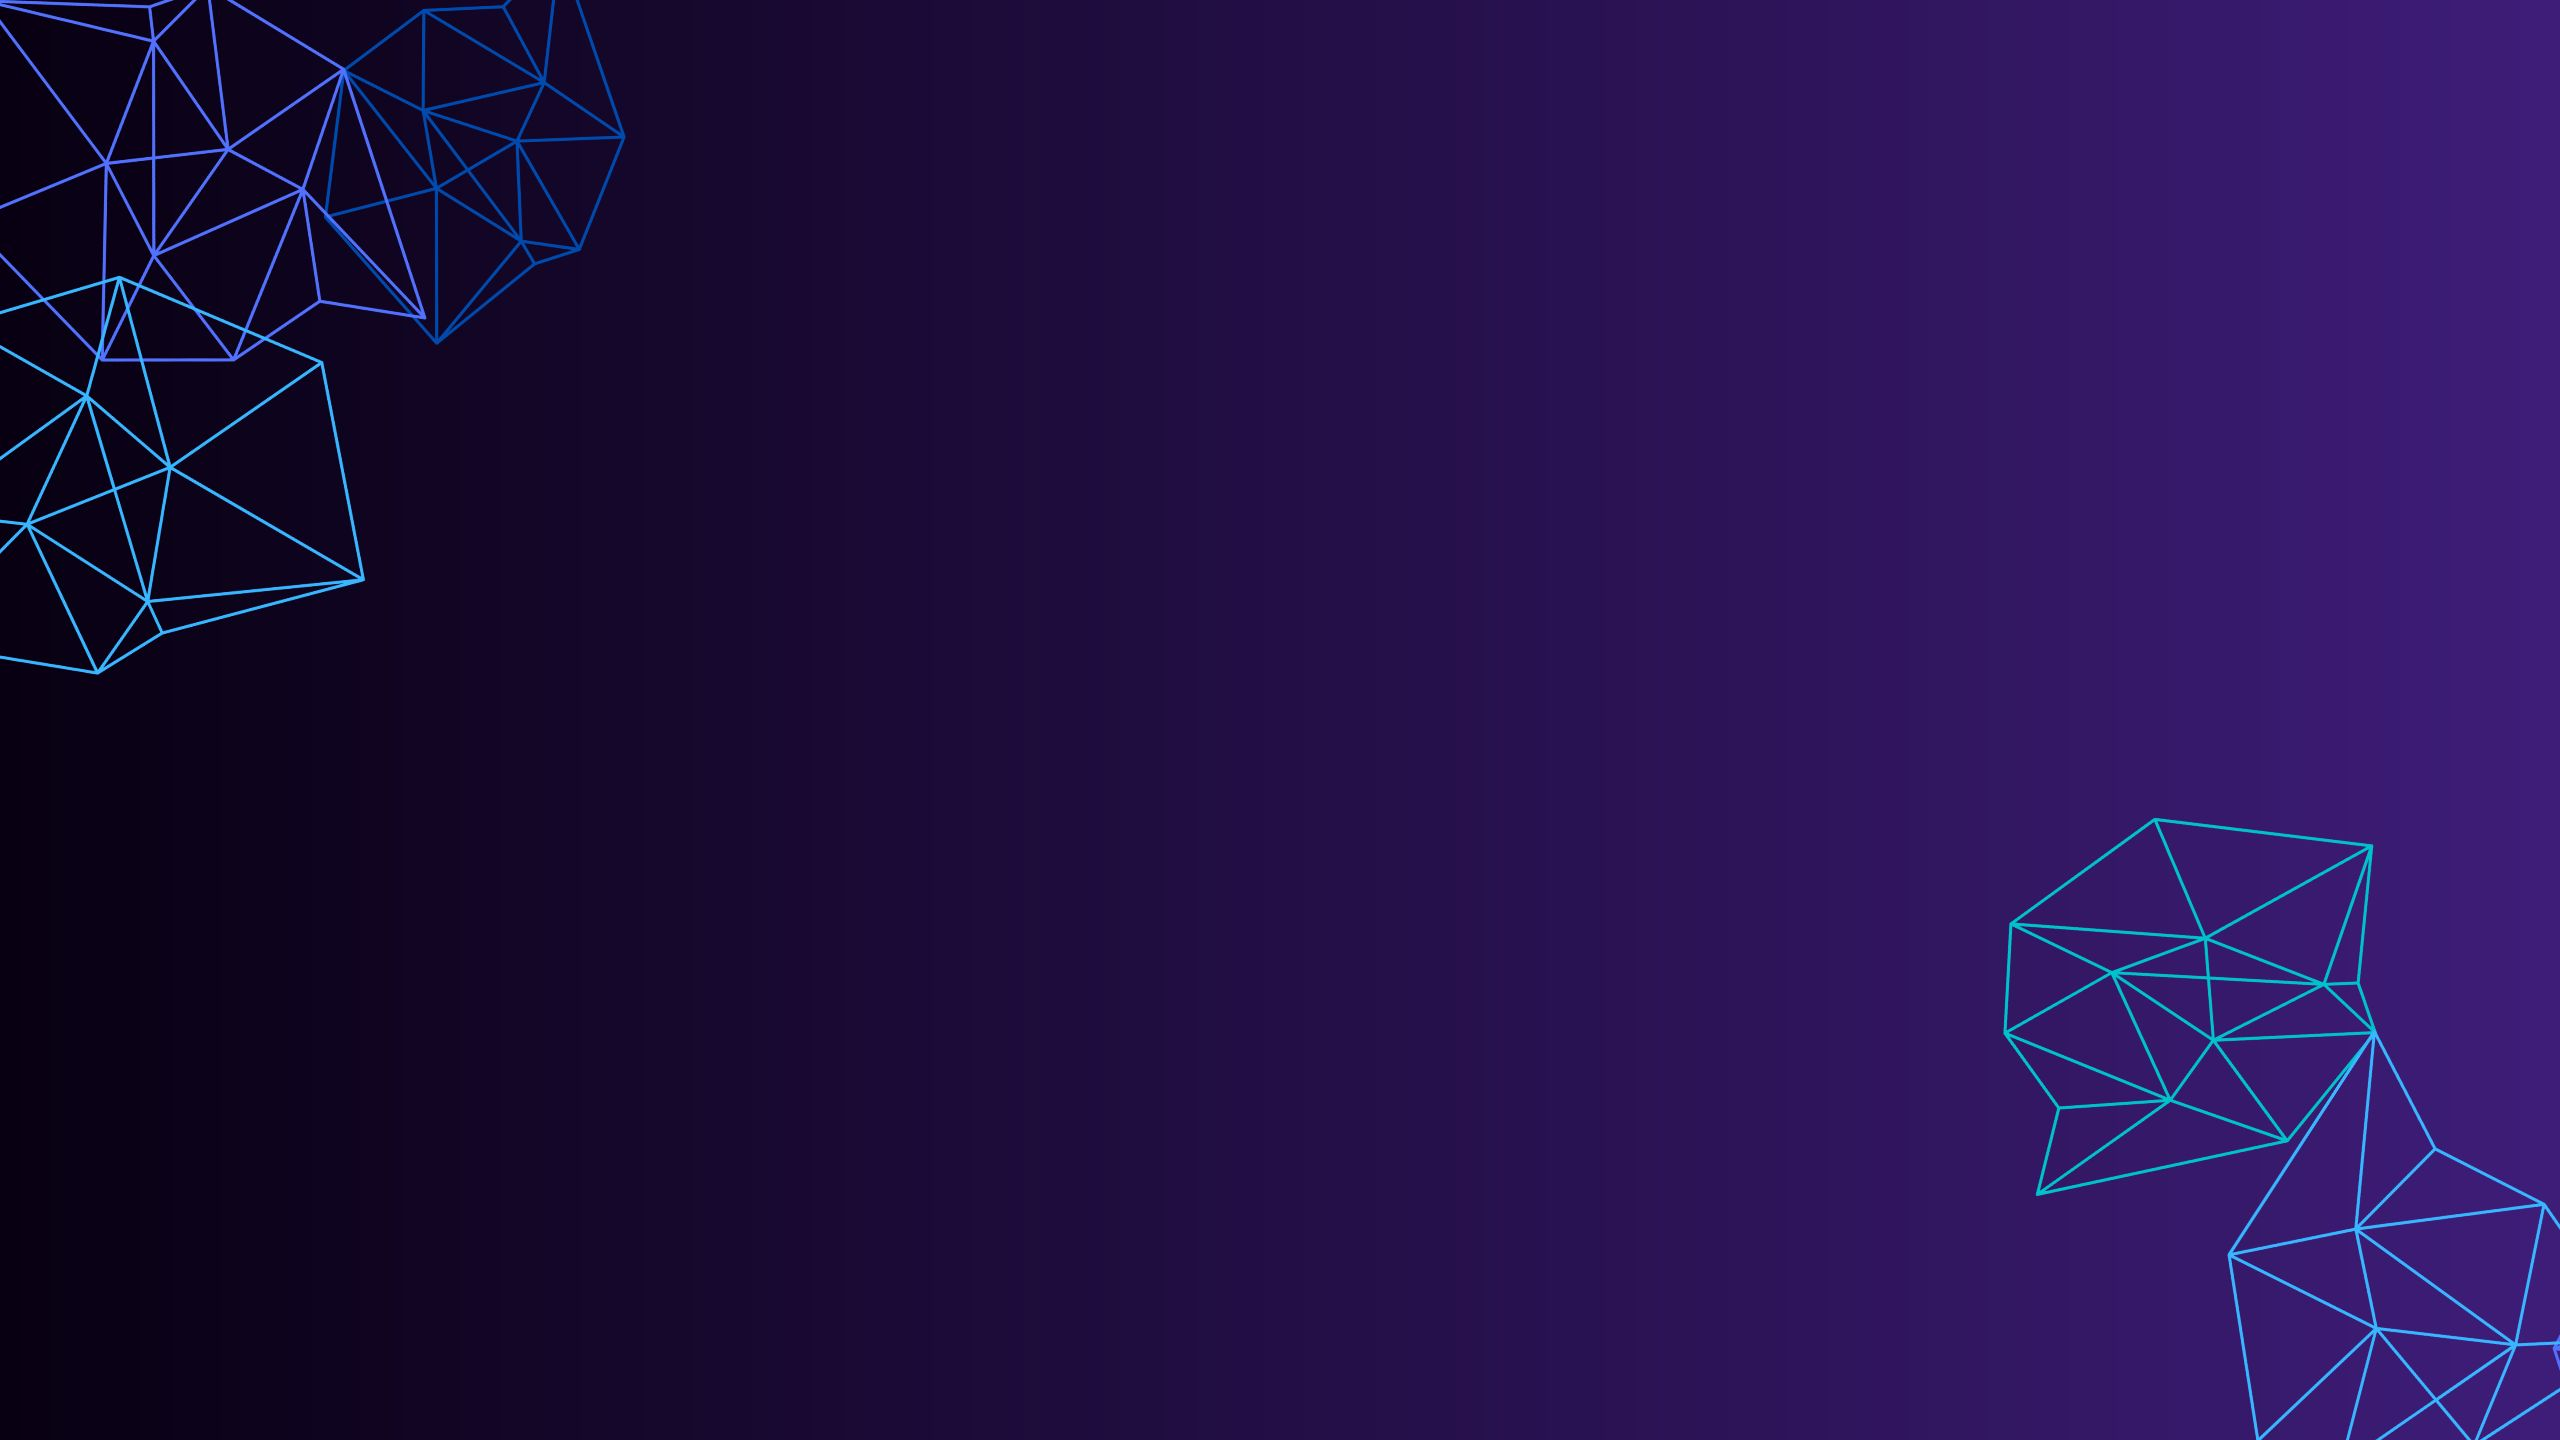
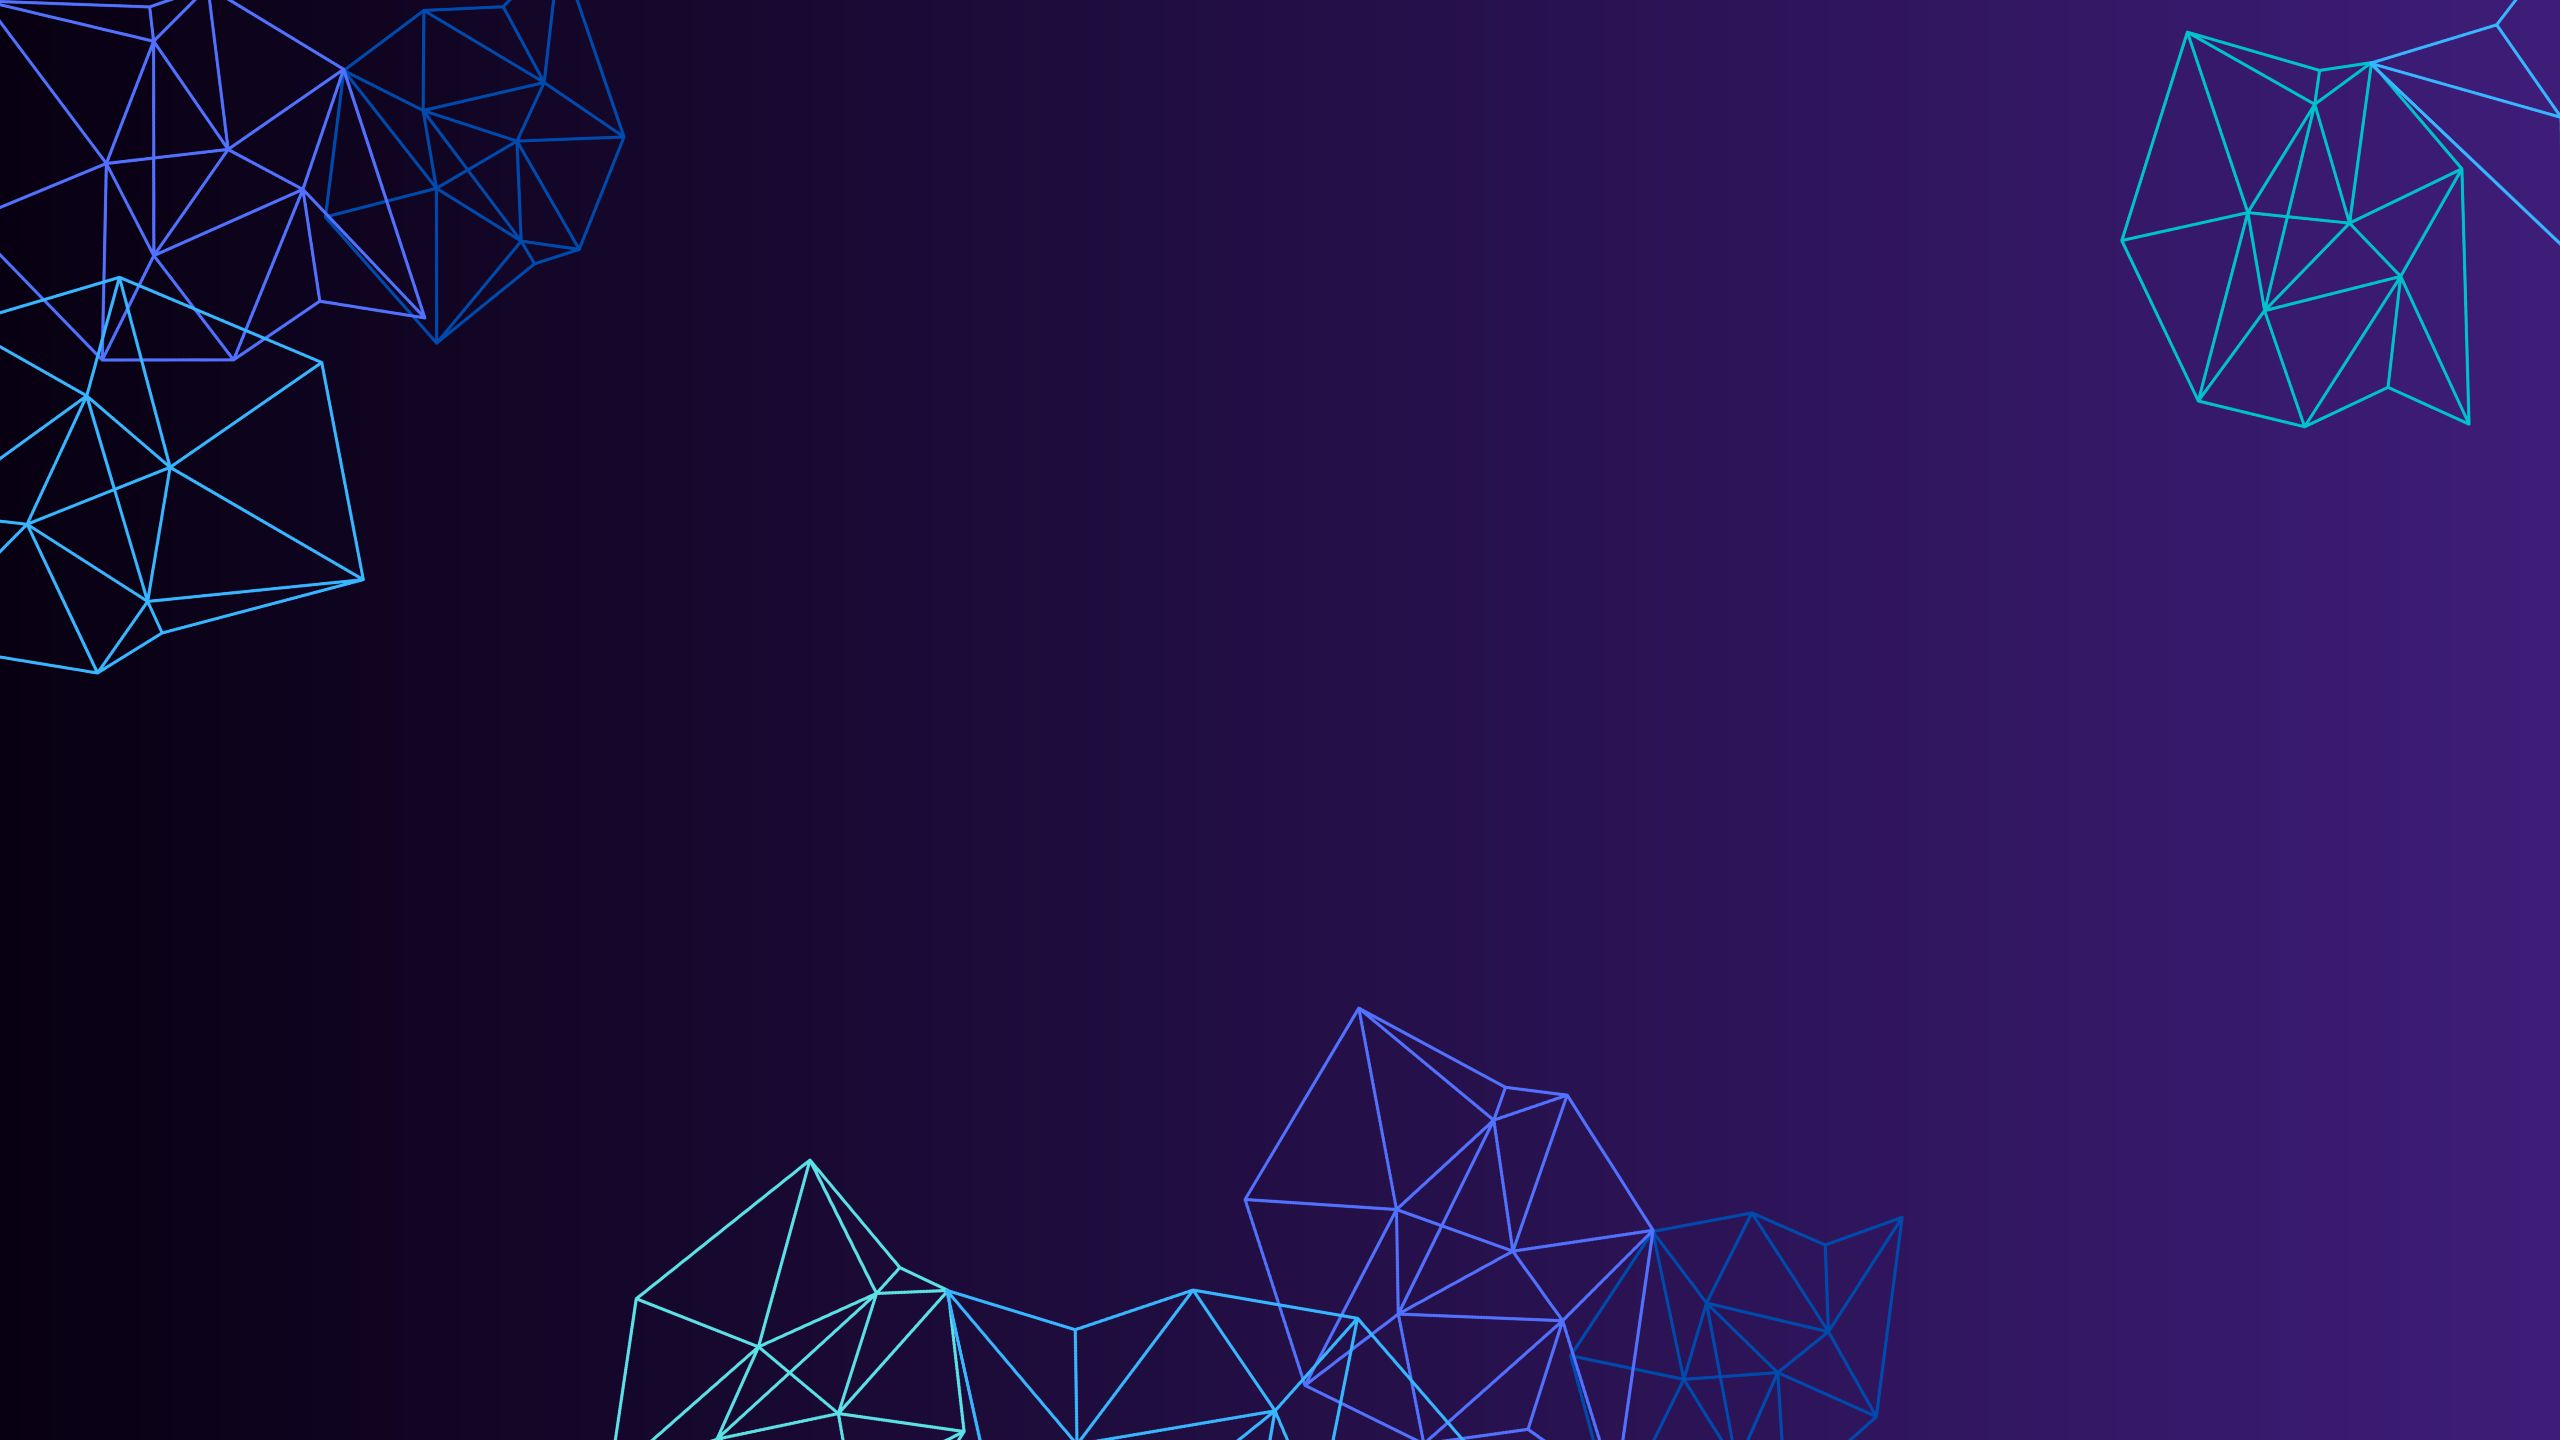
bg

diff --git a/en/index.html b/en/index.html
@@ -43,7 +43,7 @@ li{margin-bottom:6px}
 main{margin-left:300px}
 
 /* Hero */
-.hero{position:relative;min-height:100vh;background:linear-gradient(rgba(8,4,15,.80),rgba(8,4,15,.80)),url("../assets/img/hero-bg.jpg") center/cover no-repeat;color:#fff;display:flex;align-items:center;overflow:hidden;padding:64px 56px}
+.hero{position:relative;min-height:100vh;background:linear-gradient(rgba(8,4,15,.20),rgba(8,4,15,.20)),url("../assets/img/hero-bg.jpg") center/cover no-repeat;color:#fff;display:flex;align-items:center;overflow:hidden;padding:64px 56px}
 .poly{position:absolute;fill:none;stroke-width:1.2;pointer-events:none}
 .p1{left:0;top:0;width:240px;height:320px}
 .p2{right:0;bottom:0;width:340px;height:440px}
